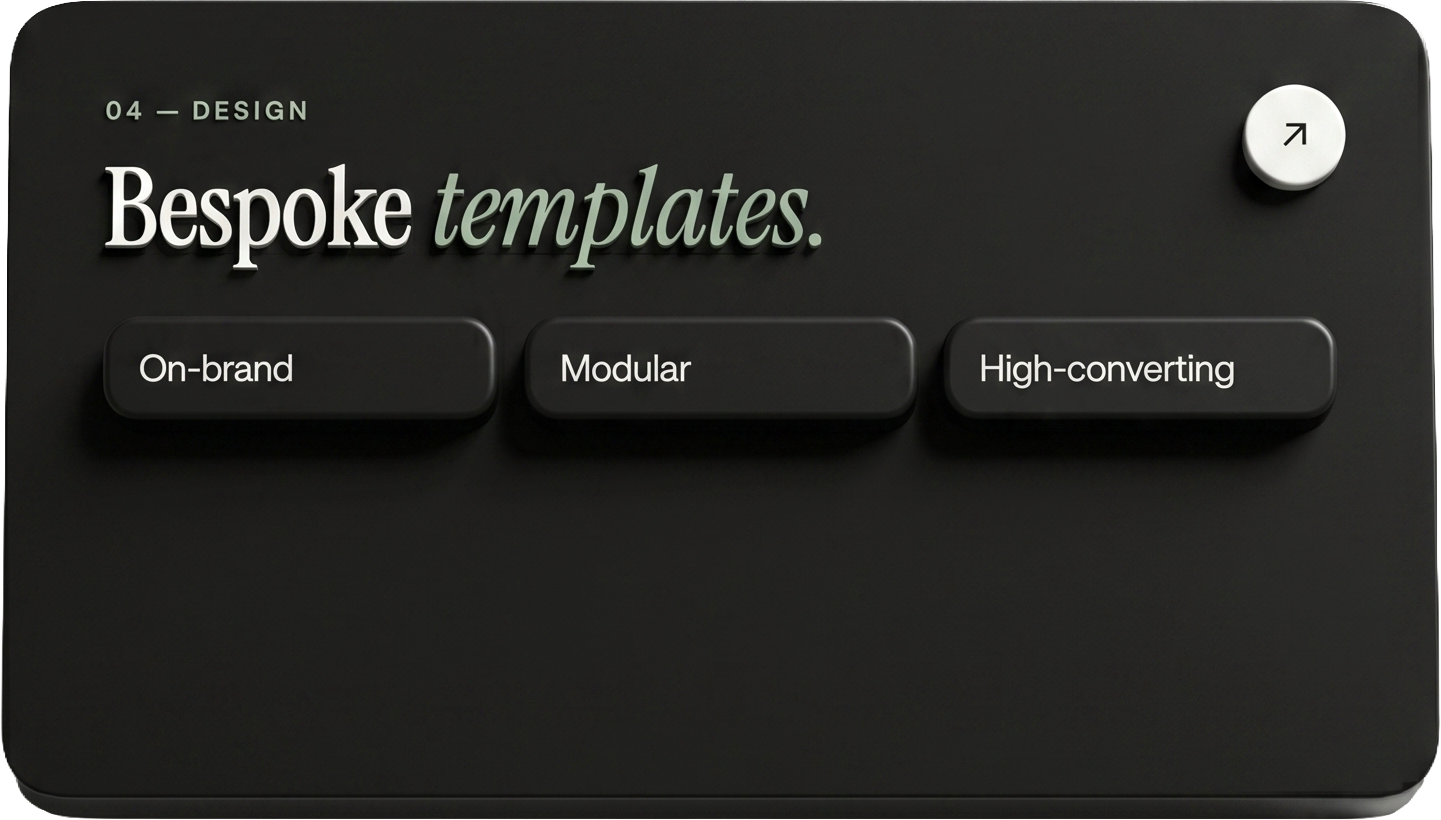
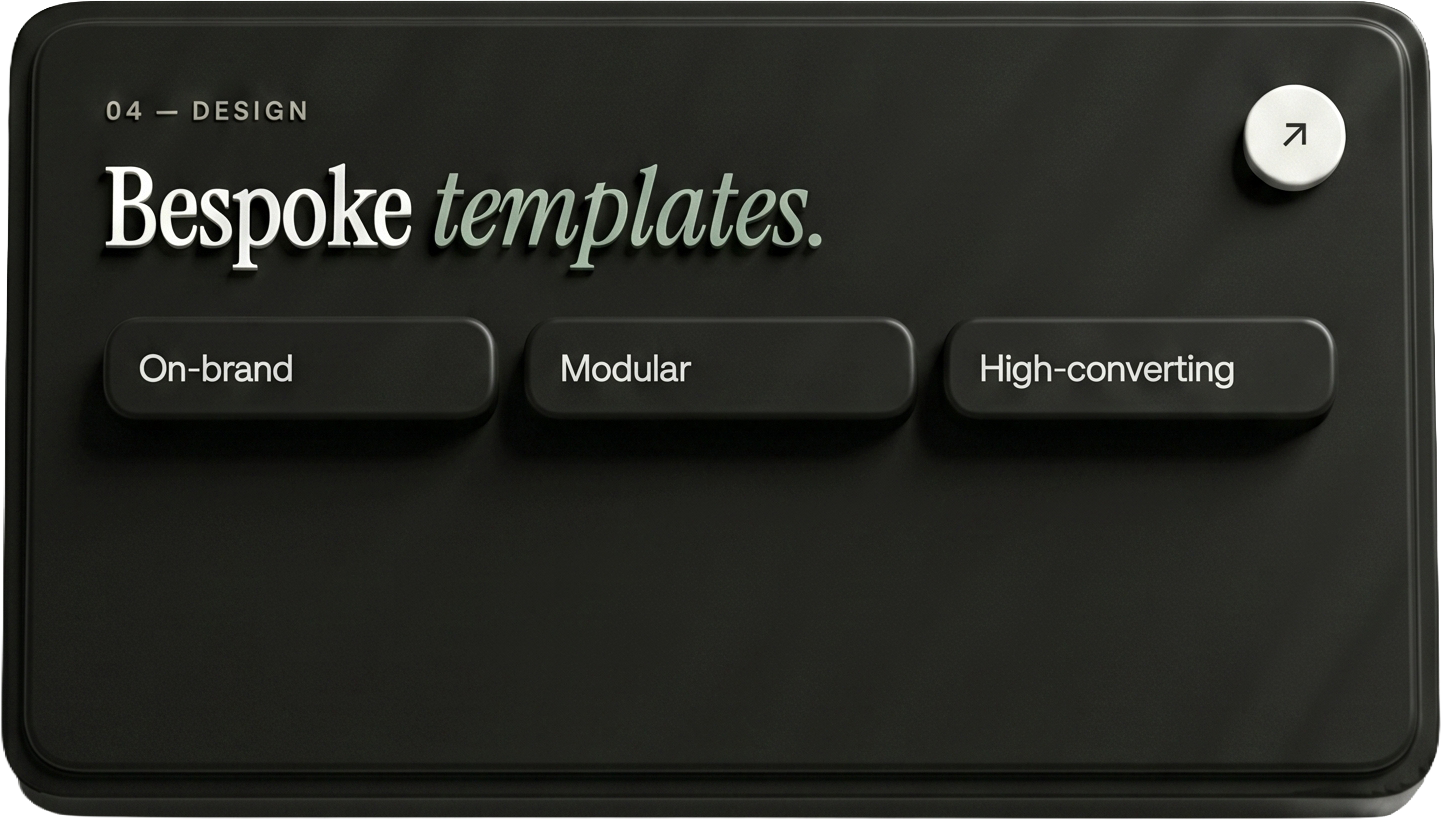
Soften tilt, add cursor-tracked glow, fix corner hit area
- Reduce tilt from 7 to 4 degrees
- Bind mousemove to the inner .render so empty space around the card
  no longer triggers tilt
- Add clip-path inset/round so rounded corners limit the hit area too
- New radial glow follows the cursor with a moss-green gradient
- Swap Bespoke card to the rounded-corner render

diff --git a/index.html b/index.html
@@ -103,21 +103,38 @@
         }
 
         /* Image-rendered card — uses pre-rendered 3D image */
-        .image-card { background: transparent !important; perspective: 1200px; }
+        .image-card { background: transparent !important; perspective: 1400px; }
         .image-card .render {
-            transition: transform 0.45s cubic-bezier(0.22, 1, 0.36, 1);
+            position: relative;
+            transition: transform 0.5s cubic-bezier(0.22, 1, 0.36, 1);
             will-change: transform;
             transform-style: preserve-3d;
+            /* Round the hit area so cursor near rounded card corner doesn't trigger */
+            clip-path: inset(2% round 32px);
         }
+        /* Soft radial glow that tracks the cursor */
+        .image-card .render::before {
+            content: '';
+            position: absolute;
+            inset: -8%;
+            border-radius: 48px;
+            background: radial-gradient(circle 240px at var(--mx, 50%) var(--my, 50%),
+                rgba(31, 77, 63, 0.42), rgba(31, 77, 63, 0) 65%);
+            filter: blur(28px);
+            opacity: 0;
+            transition: opacity 0.45s cubic-bezier(0.22, 1, 0.36, 1);
+            z-index: -1;
+            pointer-events: none;
+        }
+        .image-card:hover .render::before { opacity: 1; }
+
         .reveal-card.image-card > div { box-shadow: none !important; transform: none !important; background: transparent !important; }
         .reveal-card.image-card:hover > div { transform: none !important; box-shadow: none !important; }
         /* JS handles tilt on mousemove; this is the rest state and the gentle pop on hover */
-        .reveal-card.image-card:hover .render { transform: translateY(-6px) scale(1.02); }
-        /* Disable global sibling-dim for image cards */
-        .work-grid:has(.reveal-card:hover) .reveal-card.image-card:not(:hover) > div { opacity: 1 !important; transform: none !important; }
-        .work-grid:has(.reveal-card:hover) .reveal-card.image-card:not(:hover) .render { opacity: 1; transform: none; }
-        /* Don't dim non-image siblings either — just let the hovered one pop */
+        .reveal-card.image-card:hover .render { transform: translateY(-4px) scale(1.012); }
+        /* Don't dim siblings — just let the hovered one pop */
         .work-grid:has(.reveal-card:hover) .reveal-card:not(:hover) > div { opacity: 1; transform: none; }
+        .work-grid:has(.reveal-card:hover) .reveal-card.image-card:not(:hover) .render { opacity: 1; transform: none; }
         /* Marquee */
         @keyframes marquee { from { transform: translateX(0); } to { transform: translateX(-50%); } }
         .marquee-track { animation: marquee 38s linear infinite; }
@@ -238,7 +255,7 @@
                 <article class="reveal reveal-card image-card md:col-span-5 group" style="transition-delay:240ms" aria-label="Bespoke templates">
                     <div class="h-full flex items-center justify-center">
                         <a href="#contact" class="render block w-full max-w-[520px] mx-auto">
-                            <img src="bespoke-card.png?v=1" alt="Bespoke templates" class="w-full h-auto select-none" draggable="false">
+                            <img src="bespoke-card.png?v=2" alt="Bespoke templates" class="w-full h-auto select-none" draggable="false">
                         </a>
                     </div>
                 </article>
@@ -348,28 +365,34 @@
             });
         });
 
-        // Mouse-tracked tilt on image cards
+        // Mouse-tracked tilt + radial glow on image cards
         (() => {
             const supportsHover = window.matchMedia('(hover: hover)').matches;
             if (!supportsHover) return;
-            const maxTilt = 7; // degrees
+            const maxTilt = 4; // degrees — subtle
             document.querySelectorAll('.image-card').forEach(card => {
                 const render = card.querySelector('.render');
                 if (!render) return;
-                let frame = 0;
                 let pending = false;
-                let lastX = 0, lastY = 0;
+                let lastX = 0, lastY = 0;        // -1..1 normalized
+                let mxPct = 50, myPct = 50;      // 0..100 for radial gradient
                 const apply = () => {
                     pending = false;
-                    render.style.transform = `perspective(1000px) rotateY(${lastX * maxTilt}deg) rotateX(${-lastY * maxTilt}deg) translateY(-6px) scale(1.02)`;
+                    render.style.transform = `perspective(1400px) rotateY(${lastX * maxTilt}deg) rotateX(${-lastY * maxTilt}deg) translateY(-4px) scale(1.012)`;
+                    render.style.setProperty('--mx', mxPct + '%');
+                    render.style.setProperty('--my', myPct + '%');
                 };
-                card.addEventListener('mousemove', e => {
-                    const rect = card.getBoundingClientRect();
-                    lastX = ((e.clientX - rect.left) / rect.width - 0.5) * 2;   // -1..1
-                    lastY = ((e.clientY - rect.top) / rect.height - 0.5) * 2;
+                render.addEventListener('mousemove', e => {
+                    const rect = render.getBoundingClientRect();
+                    const xRatio = (e.clientX - rect.left) / rect.width;
+                    const yRatio = (e.clientY - rect.top) / rect.height;
+                    lastX = (xRatio - 0.5) * 2;
+                    lastY = (yRatio - 0.5) * 2;
+                    mxPct = xRatio * 100;
+                    myPct = yRatio * 100;
                     if (!pending) { pending = true; requestAnimationFrame(apply); }
                 });
-                card.addEventListener('mouseleave', () => {
+                render.addEventListener('mouseleave', () => {
                     render.style.transform = '';
                 });
             });